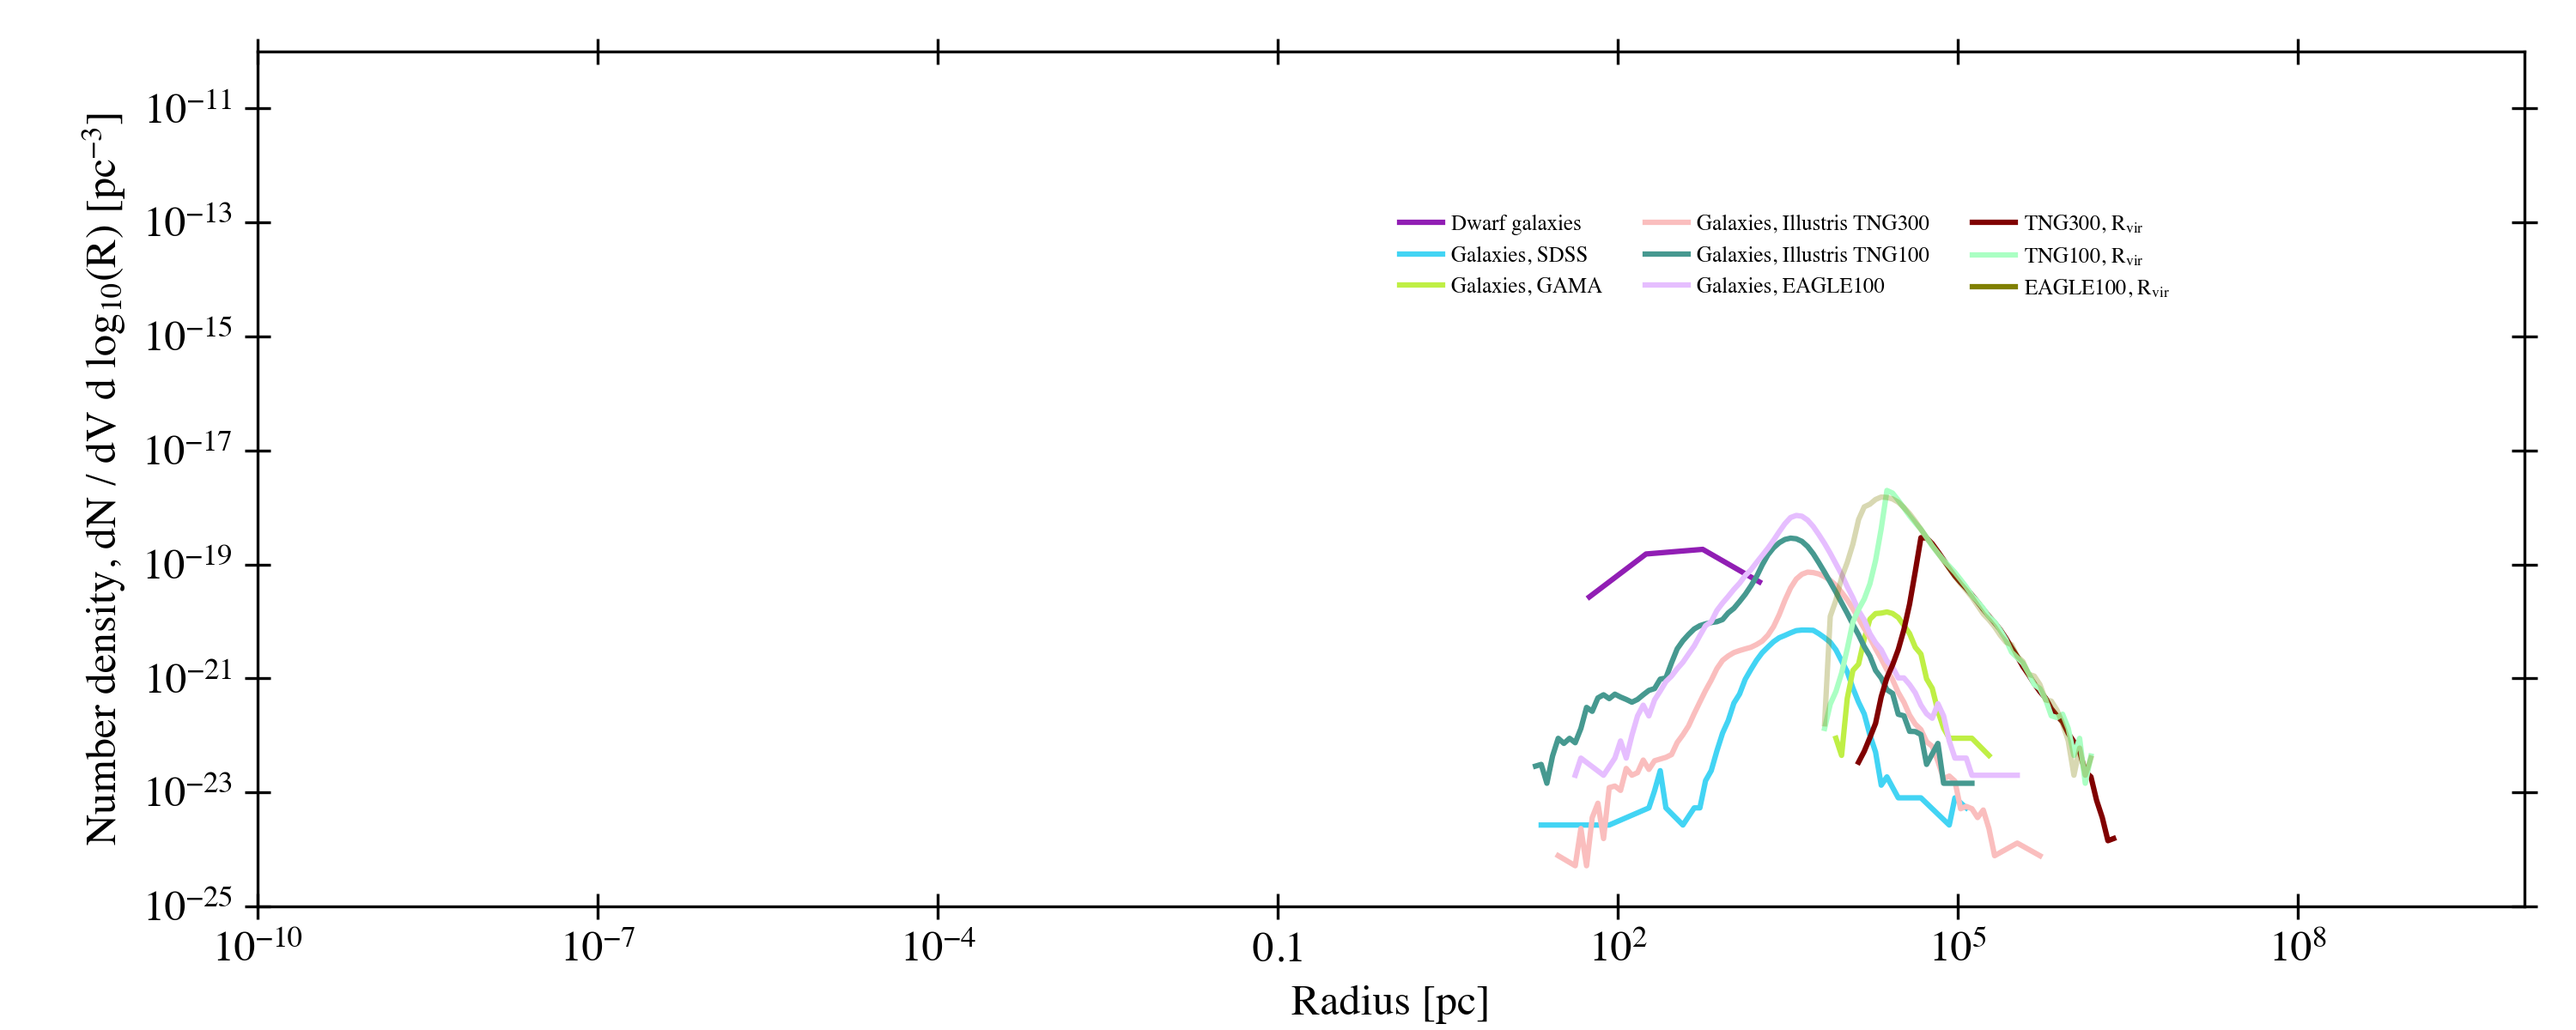
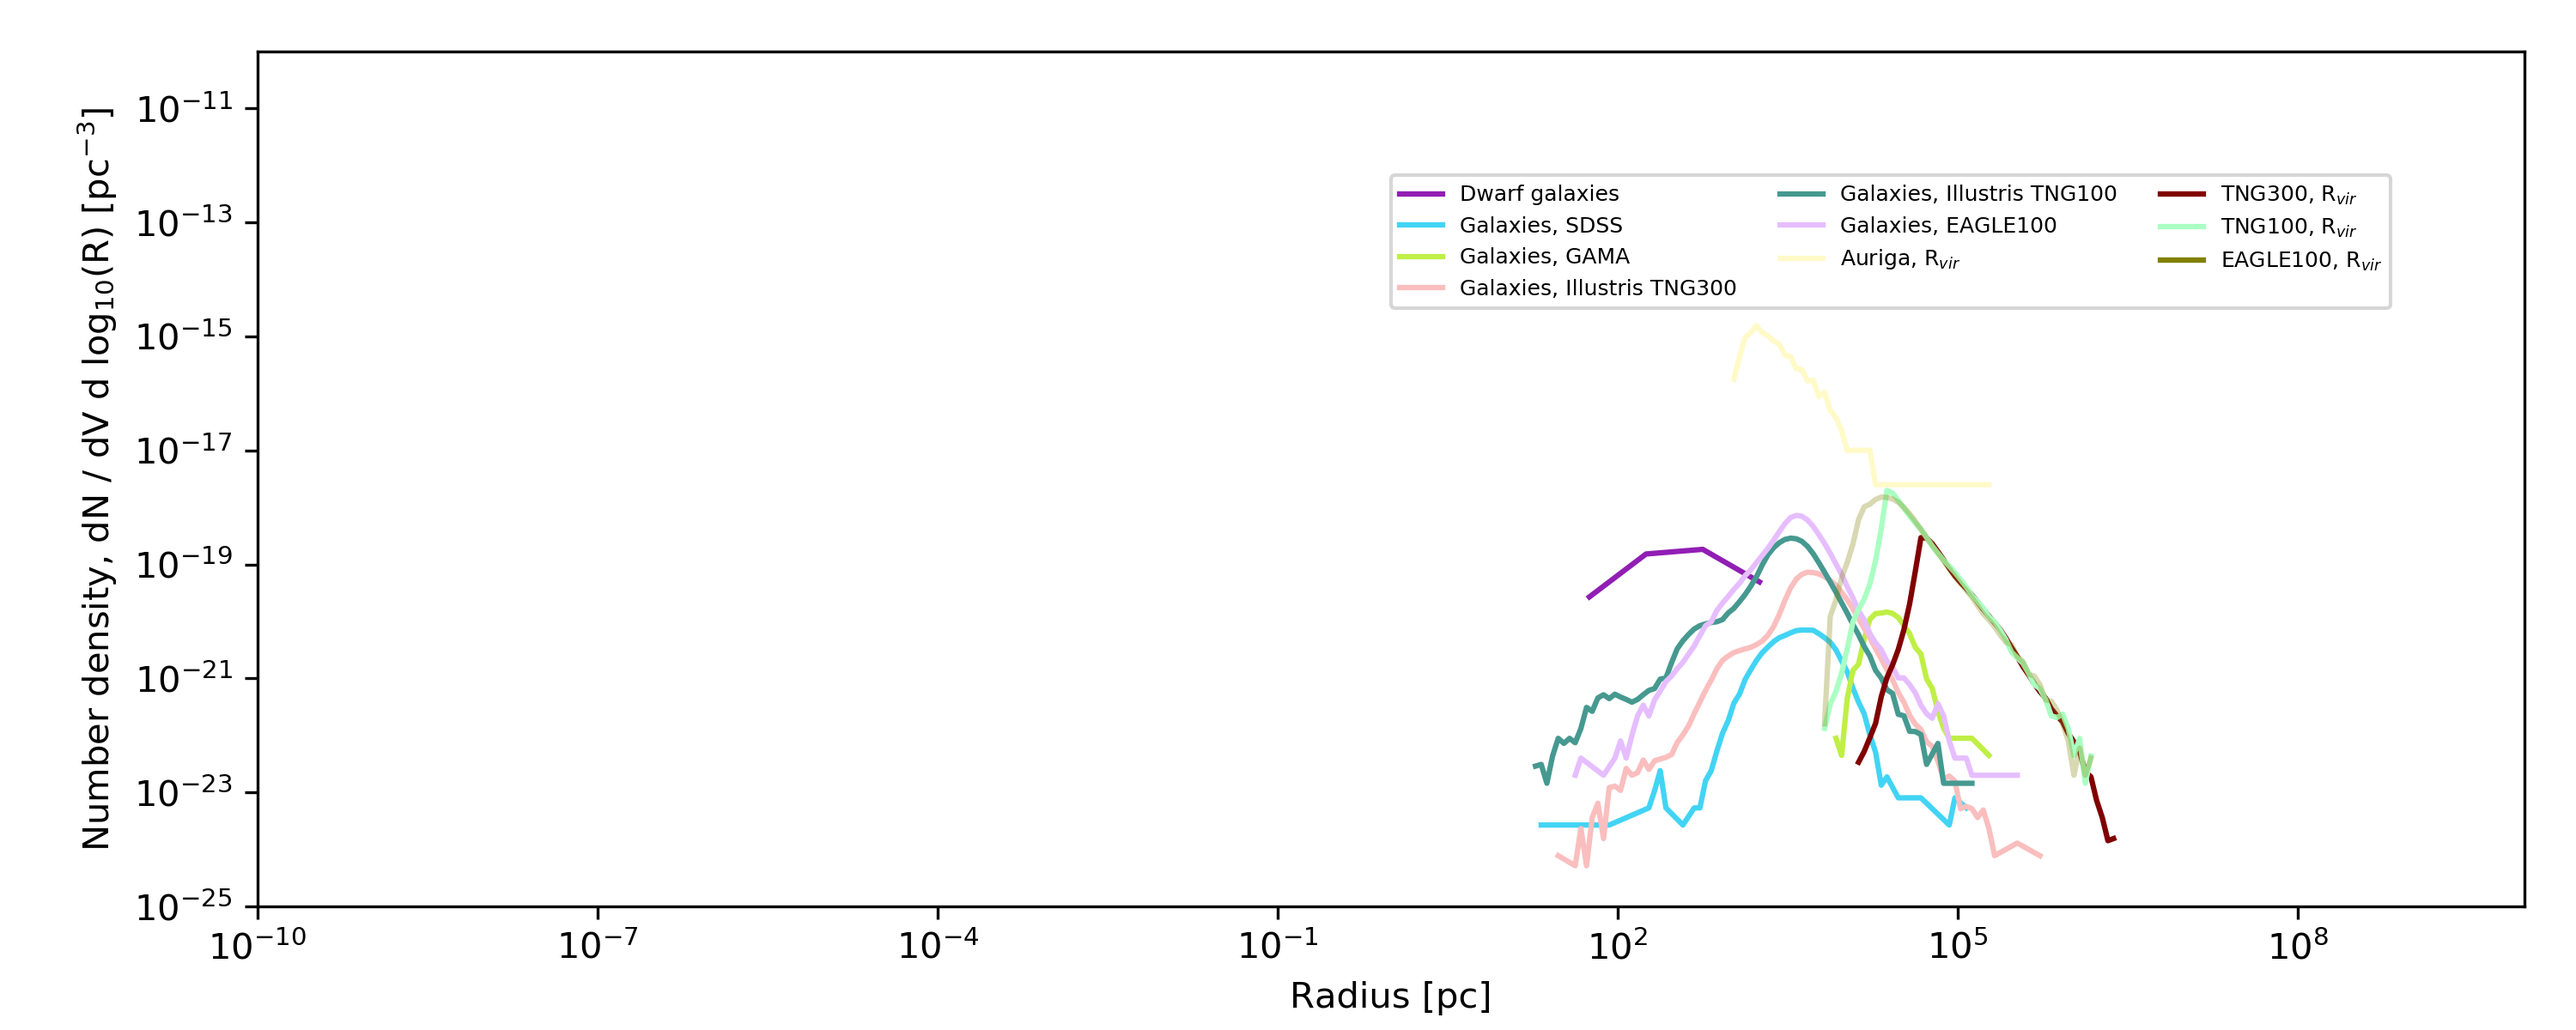
Updating Auriga rvir

diff --git a/figures/datasets.py b/figures/datasets.py
@@ -55,7 +55,7 @@ def data_to_plot(set):
                 ['Galaxies, Illustris TNG100', 'illustris/BigPlotRadiusData_TNG100_rhalfmassstar.txt', 0, '#469990', '-'],
                 ['Galaxies, EAGLE100', 'eagle/BigPlotRadiusData_EAGLE_halfstarrad.txt', 0, '#e6beff', '-'],
                 #['Galaxies, EAGLE25', 'eagle/BigPlotData_EAGLE25_mstar.txt', 1e6, '#9A6324', '-'],
-                #['Auriga, M$_{vir}$', 'BigPlotData_Auriga_mvir.txt', 0, '#fffac8', '-'],
+                ['Auriga, R$_{vir}$', 'BigPlotData_Auriga_rvir.txt', 0, '#fffac8', '-'],
                 ['TNG300, R$_{vir}$', 'illustris/BigPlotRadiusData_TNG300_rvir.txt', 0, '#800000', '-'],
                 ['TNG100, R$_{vir}$', 'illustris/BigPlotRadiusData_TNG100_rvir.txt', 0, '#aaffc3', '-'],
                 ['EAGLE100, R$_{vir}$', 'eagle/BigPlotRadiusData_EAGLE_rvir.txt', 3e8, '#808000', '-'],
